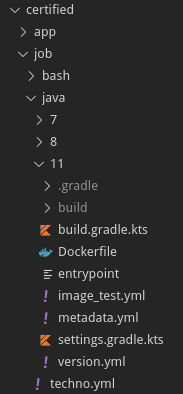
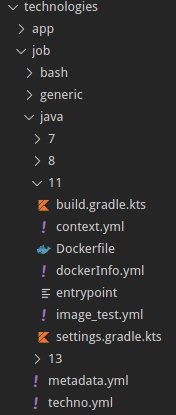
:pencil: Add read documentation

diff --git a/README.md b/README.md
@@ -12,85 +12,69 @@
 
 [![Contributors](https://img.shields.io/github/contributors/saagie/technologies?style=for-the-badge&color=blue)][contributors]
 
-[releases]: https://github.com/saagie/technologies/releases
-[contributors]: https://github.com/saagie/technologies/graphs/contributors
-[issues]: https://github.com/saagie/technologies/issues
-[license]: https://github.com/saagie/technologies/blob/master/LICENSE
-[build_promote]: https://github.com/saagie/technologies/actions?query=workflow%3APROMOTE
-[build_modified]: https://github.com/saagie/technologies/actions?query=workflow%3A%22BUILD+ONLY+MODIFIED%22
 
-This repository contains all certified technologies used in Saagie.
-It also contains some experimental technologies before being certified.
+This repository contains all offical technologies shipped by Saagie.
 
 ## CONTENTS
 
 This repository contains all job and application technologies.
+
+This is a recommanded file and CI structure for Saagie SDK Technologies.  
+You can use another structure. See [Saagie Help Center documentation][saagie-help-center] for more information.
+
  
-### Job technologies
-
-A job technologie can be launch as a job in Saagie. It has :
-- a name
-- an icon
-- some features to create a job
-- one or more versions (each can be active/deprecated/inactive for the same technologie)
-
-See "How to create a new job technologie" for more details
-
-### Application technologies
-
-
-An application technologie can be launch as an application in Saagie. It has : 
-- a name
-- an icon
-- a description
-- some default properties to create the application (ports, volumes, ...)
-
-
-See "How to create a new application technologie" for more details 
-
-
 ## CONTRIBUTING
 
 
-All contributions are made with the pull-request system.
-
-### How to create a new job technologie
-
+All contributions are made with the pull-request system.  
 
 You create an issue and a pull-request associated. 
 
-The build is running using a Github Action workflow (build only modified). It builds only technologies modified and generate a pre release containing assets. The name of the pre release = current version + name of the branch.
+The build is running using a Github Action workflow ([build only modified][build_only_modified]). It builds only technologies modified and generates a pre-release containing assets.  
+The name of the pre release = current version + name of the branch.
 
-When you create a new technologie or a new version for a job, you need to specify some needed files (see current for inspiration).
+### How to create or edit a job technology or context
+
+When you create a new technology or a new context for a job, you need to specify some needed files (see current for inspiration).
 
 Tree directories are strict :   
 ![tree_directory](./readme_assets/folder_directory.png)
 
-two main root folders : "certified" and "experimental", then you need to specified if the technology is for a job or an application.
-So you'll have : `certified/job` for a certified job technology.
+We split job and app inside a "technologies" directory (root level).
 
-Inside, each technology is under a folder (here : "java"), then each sub directories represents a version of this technology (here : 7,8 and 11 which was for all versions of java.)
+Inside "job" or "app", each technology is under a folder (here : "java"), then each sub directories represents a context of this technology (here : 7,8,11 and 13 which was for all contexts of java.)
 
-filename | scope | description
---- | --- | ---
-techno.yml | technology directory | this file describes the technology (the name, the icon, the availability, the reference to the docker repository)
-version.yml | version directory | this file describes all informations about the version (features used, name of the version, the availability)
-build.gradle.kts | version directory | build in this repository is made with gradle plugins. So you just need to apply theses plugins (just need a Dockerfile and a image_test.yml). You can also declare dependencies between build if you need to build this version from another in this repository (gradle will do the build using this dependency)
-settings.gradle.kts | version directory | to set a name of the build version (need to be uniq in this repository)
-Dockerfile | version directory | The Dockerfile of the version
-image_test.yml | version directory | Each build need to be tested ... So we use [GoogleContainerTools/container-structure-test](https://github.com/GoogleContainerTools/container-structure-test) to test the generated image.
-metadata.yml | version directory | This is a generated file, no need to have it, it will be created during the first build. It just a concatenation of the techno.yml and version.yml file with a correct docker image version.
+#### Technology level : 
 
+filename |  description
+--- | ---
+`techno.yml` |  This file describes the technology (see [Saagie Help Center documentation - SDK][saagie-help-center] for details).
+`metadata.yml` |  This is a generated file, it will be created during the first build. It's just a concatenation of the `techno.yml` and all `context.yml` files with a correct Docker image tag (from `dockerInfo.yml`).
 
-### How to create a new application technologie
+#### Context level : 
 
+filename |  description
+--- |  ---
+`context.yml` | This file describes all information about the context (see [Saagie Help Center documentation - SDK][saagie-help-center] for details).
+`dockerInfo.yml` | This is a generated file containing the Docker repository and tag of the context Docker image.
+`build.gradle.kts` | The build in this repository is made with [gradle plugins][saagie-gradle-plugin]. So you need to apply theses plugins (just need a Dockerfile and a image_test.yml). You can also declare dependencies between build if you need to build this context from another in this repository (Gradle will do the build using this dependency).
+`settings.gradle.kts` | To set a name of the build context (need to be uniq in this repository).
+`Dockerfile` | The Dockerfile of the context
+`image_test.yml` |  Each build need to be tested ... So we use [GoogleContainerTools/container-structure-test](https://github.com/GoogleContainerTools/container-structure-test) to test the generated Docker image.
 
-Work in progress
+If you don't have a Dockerfile (example : `generic/docker` technology), only the `context.yml` is needed.
+
+### How to create or edit an application technology
+
+For the moment, we just host metadata.yml for each app in this repository (we use external git repositories for Docker images).
+
+The content of the `metadata.yml` file is describe in the [Saagie Help Center documentation - SDK][saagie-help-center].
+
 
 ## Build
 
 
-All was made with Github actions for this repository, but the main work was done by gradle (to be run in every CI).  
+We use a custom [Gradle plugin][saagie-gradle-plugin] to build and ship all Docker images. We use Github actions to call all Gradle tasks (on CI).
 
 ### Local
 
@@ -99,8 +83,19 @@ and it will build all modified images without push it with the "_local" suffix.
 
 ### Github Action
 
-The workflow started at each push on the branch ... and it will generated docker images for modified technologies and generate a pre release in Github containing all assets.
+The workflow starts at each push on the branch ... and it generates Docker images for modified technologies and generate a pre-release in Github containing all generated metadata files in a zip.
 
 ### Promotion
 
-When the pull-request is merged in master, another Github action (running a gradle task) starts. It will retag docker images with branch name into a "production" name and generate a real release (and delete the pre release)
+When the pull-request is merged in master, another Github action (using a Gradle task) starts. It will retag Docker images with branch name into a "production" name and generate a real release (and delete the pre release).
+
+
+[saagie-gradle-plugin]: https://github.com/saagie/technologies-plugin
+[saagie-help-center]: https://saagie.zendesk.com/hc/en-us
+[build_only_modified]: https://github.com/saagie/technologies/blob/master/.github/workflows/buildOnlyModified.yml
+[releases]: https://github.com/saagie/technologies/releases
+[contributors]: https://github.com/saagie/technologies/graphs/contributors
+[issues]: https://github.com/saagie/technologies/issues
+[license]: https://github.com/saagie/technologies/blob/master/LICENSE
+[build_promote]: https://github.com/saagie/technologies/actions?query=workflow%3APROMOTE
+[build_modified]: https://github.com/saagie/technologies/actions?query=workflow%3A%22BUILD+ONLY+MODIFIED%22
